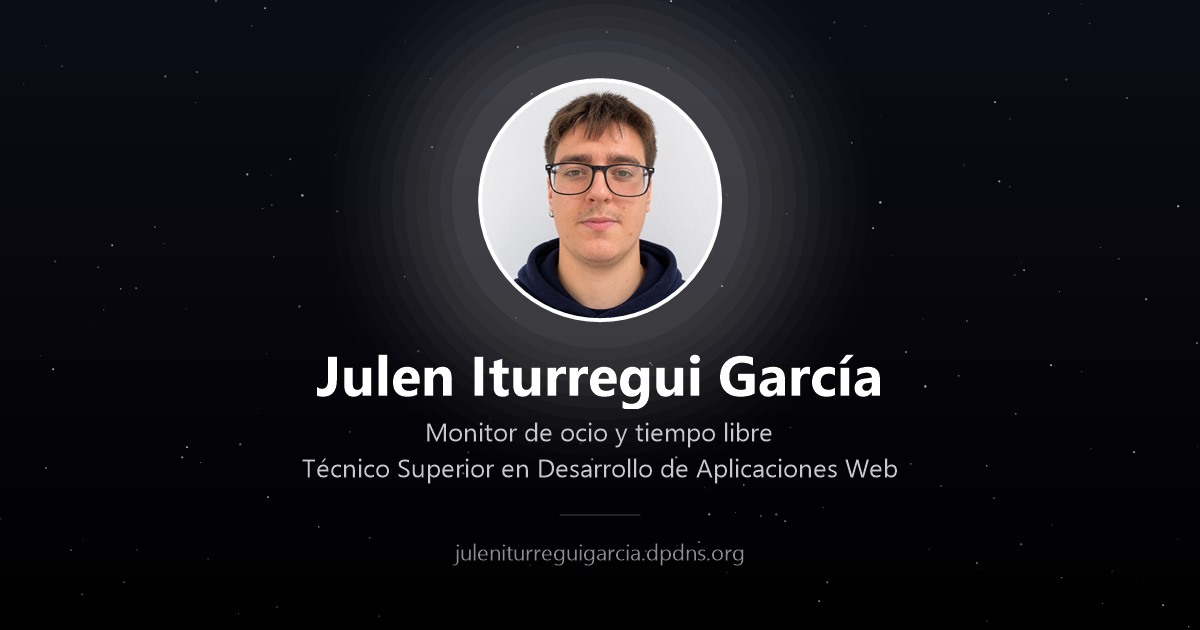
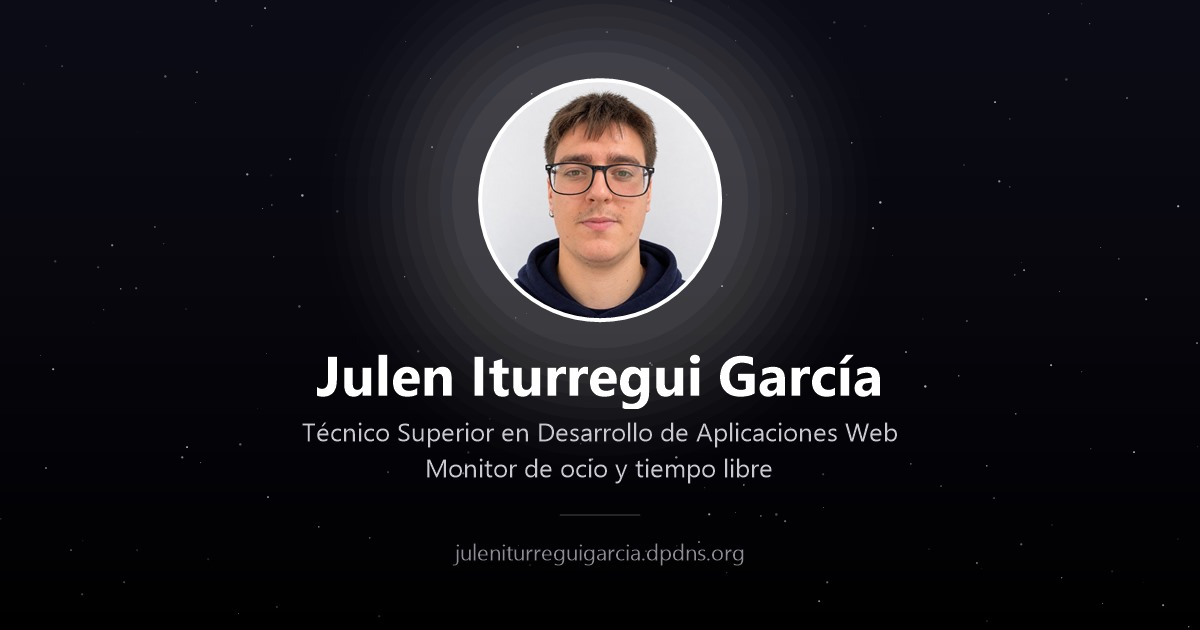
Reorganiza la presentación y agrupa las competencias

Changed region(s): [[0.2467, 0.6635, 0.74, 0.7841]]

diff --git a/index.html b/index.html
@@ -5,7 +5,7 @@
   <meta charset="utf-8" />
   <meta name="viewport" content="width=device-width, initial-scale=1" />
   <title>Julen Iturregui García</title>
-  <meta name="description" content="Web personal de Julen Iturregui García: monitor de ocio y tiempo libre y Técnico Superior en Desarrollo de Aplicaciones Web. Contacto, LinkedIn y currículum en español e inglés." />
+  <meta name="description" content="Web personal de Julen Iturregui García: Técnico Superior en Desarrollo de Aplicaciones Web y monitor de ocio y tiempo libre. Contacto, LinkedIn, GitHub y currículum en español e inglés." />
   <meta name="author" content="Julen Iturregui García" />
   <meta name="robots" content="index, follow" />
   <meta name="theme-color" content="#000000" />
@@ -16,25 +16,25 @@
   <meta property="og:site_name" content="Julen Iturregui García" />
   <meta property="og:locale" content="es_ES" />
   <meta property="og:title" content="Julen Iturregui García" />
-  <meta property="og:description" content="Monitor de ocio y tiempo libre · Técnico Superior en Desarrollo de Aplicaciones Web. Contacto, LinkedIn y currículum en español e inglés." />
+  <meta property="og:description" content="Técnico Superior en Desarrollo de Aplicaciones Web y monitor de ocio y tiempo libre. Contacto, LinkedIn, GitHub y currículum en español e inglés." />
   <meta property="og:url" content="https://juleniturreguigarcia.dpdns.org/" />
-  <meta property="og:image" content="https://juleniturreguigarcia.dpdns.org/images/og-julen.jpg" />
+  <meta property="og:image" content="https://juleniturreguigarcia.dpdns.org/images/og-julen.jpg?v=52f97c29" />
   <meta property="og:image:type" content="image/jpeg" />
-  <meta property="og:image:alt" content="Julen Iturregui García — monitor de ocio y tiempo libre y Técnico Superior en Desarrollo de Aplicaciones Web" />
+  <meta property="og:image:alt" content="Julen Iturregui García — Técnico Superior en Desarrollo de Aplicaciones Web y monitor de ocio y tiempo libre" />
   <meta property="og:image:width" content="1200" />
   <meta property="og:image:height" content="630" />
 
   <!-- Tarjeta para X/Twitter -->
   <meta name="twitter:card" content="summary" />
   <meta name="twitter:title" content="Julen Iturregui García" />
-  <meta name="twitter:description" content="Monitor de ocio y tiempo libre · Técnico Superior en Desarrollo de Aplicaciones Web. Contacto, LinkedIn y currículum en español e inglés." />
-  <meta name="twitter:image" content="https://juleniturreguigarcia.dpdns.org/images/og-julen.jpg" />
-  <meta name="twitter:image:alt" content="Julen Iturregui García — monitor de ocio y tiempo libre y Técnico Superior en Desarrollo de Aplicaciones Web" />
+  <meta name="twitter:description" content="Técnico Superior en Desarrollo de Aplicaciones Web y monitor de ocio y tiempo libre. Contacto, LinkedIn, GitHub y currículum en español e inglés." />
+  <meta name="twitter:image" content="https://juleniturreguigarcia.dpdns.org/images/og-julen.jpg?v=52f97c29" />
+  <meta name="twitter:image:alt" content="Julen Iturregui García — Técnico Superior en Desarrollo de Aplicaciones Web y monitor de ocio y tiempo libre" />
 
   <!-- Hoja de estilos única de la página -->
   <link rel="icon" type="image/svg+xml" href="images/favicon.svg?v=4a86c883" />
   <!-- La versión (?v=...) la añade automáticamente el hook pre-commit -->
-  <link rel="stylesheet" type="text/css" href="css/estilo.css?v=d1d3a7e8" />
+  <link rel="stylesheet" type="text/css" href="css/estilo.css?v=9c9c5648" />
 
   <!-- Datos estructurados del perfil (schema.org) -->
   <script type="application/ld+json">
@@ -44,11 +44,22 @@
     "name": "Julen Iturregui García",
     "url": "https://juleniturreguigarcia.dpdns.org/",
     "image": "https://juleniturreguigarcia.dpdns.org/images/CaraJulen2026.jpg",
-    "jobTitle": "Monitor de ocio y tiempo libre · Técnico Superior en Desarrollo de Aplicaciones Web",
+    "jobTitle": "Técnico Superior en Desarrollo de Aplicaciones Web · Monitor de ocio y tiempo libre",
     "knowsAbout": [
       "Desarrollo de Aplicaciones Web",
+      "HTML",
+      "CSS",
+      "JavaScript",
+      "Java",
+      "Git",
+      "Bases de datos SQL",
       "Ocio y tiempo libre",
       "Atención a la diversidad"
+    ],
+    "knowsLanguage": [
+      "es",
+      "eu",
+      "en"
     ],
     "sameAs": [
       "https://www.linkedin.com/in/julen-iturregui-garc%C3%ADa-4a8b10436/",
@@ -66,16 +77,27 @@
       <!-- Foto de perfil optimizada -->
       <img id="foto" src="images/CaraJulen2026.jpg?v=81f7544d" alt="Foto de Julen Iturregui García" width="350" height="350" fetchpriority="high" />
       <h1>Julen Iturregui García</h1>
-      <p id="presentacion">Monitor de ocio y tiempo libre · Técnico Superior en Desarrollo de Aplicaciones Web</p>
-      <p id="bio">Estudiante de Desarrollo de Aplicaciones Web en Zabalburu Ikastetxea. Vengo de la construcción y del ocio educativo, así que combino pensamiento técnico, trato con personas y capacidad de organización. Busco seguir creciendo como desarrollador web.</p>
-      <ul id="skills" aria-label="Competencias">
-        <li>Desarrollo web (DAW)</li>
-        <li>Monitor de tiempo libre</li>
-        <li>Director de tiempo libre</li>
-        <li>TEA y diversidad funcional</li>
-        <li>Euskera B2</li>
-        <li>English B2</li>
-      </ul>
+      <p id="presentacion">
+        <span class="rol rol-principal">Técnico Superior en Desarrollo de Aplicaciones Web</span>
+        <span class="rol rol-secundario">Monitor de ocio y tiempo libre</span>
+      </p>
+      <p id="bio">Técnico Superior en Desarrollo de Aplicaciones Web y monitor de ocio y tiempo libre. Disfruto resolviendo problemas, coordinando equipos y cuidando los detalles, tanto en un proyecto web como en una actividad de tiempo libre.</p>
+      <div id="competencias">
+        <div class="bloque">
+          <ul class="chips" aria-label="Desarrollo web">
+            <li class="destacado">Desarrollo web (DAW)</li>
+          </ul>
+          <p class="stack">HTML · CSS · JavaScript · Java · Git · Bases de datos (SQL)</p>
+        </div>
+        <div class="bloque">
+          <ul class="chips" aria-label="Ocio y tiempo libre">
+            <li>Director de tiempo libre</li>
+            <li>Monitor de tiempo libre</li>
+            <li>Monitor de TEA y diversidad funcional</li>
+          </ul>
+        </div>
+      </div>
+      <p id="extras">Euskera · English · Trabajo en equipo · Resolución de problemas</p>
     </div>
 
     <!-- Lista de enlaces -->

diff --git a/css/estilo.css b/css/estilo.css
@@ -68,37 +68,82 @@ h1 {
 }
 
 #presentacion {
-  margin: 0 0 14px 0;
-  font-size: 1em;
+  margin: 0 0 16px 0;
+}
+
+#presentacion .rol {
+  display: block;
+}
+
+#presentacion .rol-principal {
+  font-size: 1.02em;
+  font-weight: 600;
+  color: #FFFFFF;
+}
+
+#presentacion .rol-secundario {
+  margin-top: 2px;
+  font-size: 0.94em;
   color: #B8B8C0;
 }
 
 #bio {
   max-width: 430px;
-  margin: 0 auto 18px auto;
-  font-size: 0.94em;
-  color: #C9C9D2;
+  margin: 0 auto 22px auto;
+  font-size: 0.92em;
+  color: #A9A9B6;
 }
 
-#skills {
+#competencias {
+  margin: 0 0 18px 0;
+}
+
+#competencias .bloque + .bloque {
+  margin-top: 14px;
+  padding-top: 14px;
+  border-top: 1px solid rgba(255, 255, 255, 0.12);
+}
+
+.chips {
   display: flex;
   flex-wrap: wrap;
   justify-content: center;
-  gap: 8px;
-  margin: 0 0 28px 0;
+  gap: 7px;
+  margin: 0;
   padding: 0;
   list-style-type: none;
 }
 
-#skills li {
+.chips li {
   padding: 5px 11px;
   font-size: 0.82em;
   font-weight: 600;
   line-height: 1.2;
   color: #DCDCE4;
-  background-color: rgba(255, 255, 255, 0.07);
-  border: 1px solid rgba(255, 255, 255, 0.22);
+  background-color: rgba(255, 255, 255, 0.06);
+  border: 1px solid rgba(255, 255, 255, 0.18);
   border-radius: 999px;
+}
+
+.chips li.destacado {
+  color: #FFFFFF;
+  background-color: rgba(255, 255, 255, 0.14);
+  border-color: rgba(255, 255, 255, 0.4);
+}
+
+.stack {
+  margin: 9px 0 0 0;
+  font-size: 0.82em;
+  line-height: 1.5;
+  color: #C9C9D2;
+}
+
+#extras {
+  margin: 0 0 28px 0;
+  font-size: 0.82em;
+  line-height: 1.5;
+  color: #B0B0BC;
+  letter-spacing: 0.02em;
 }
 
 /* ===== Lista de botones ===== */
